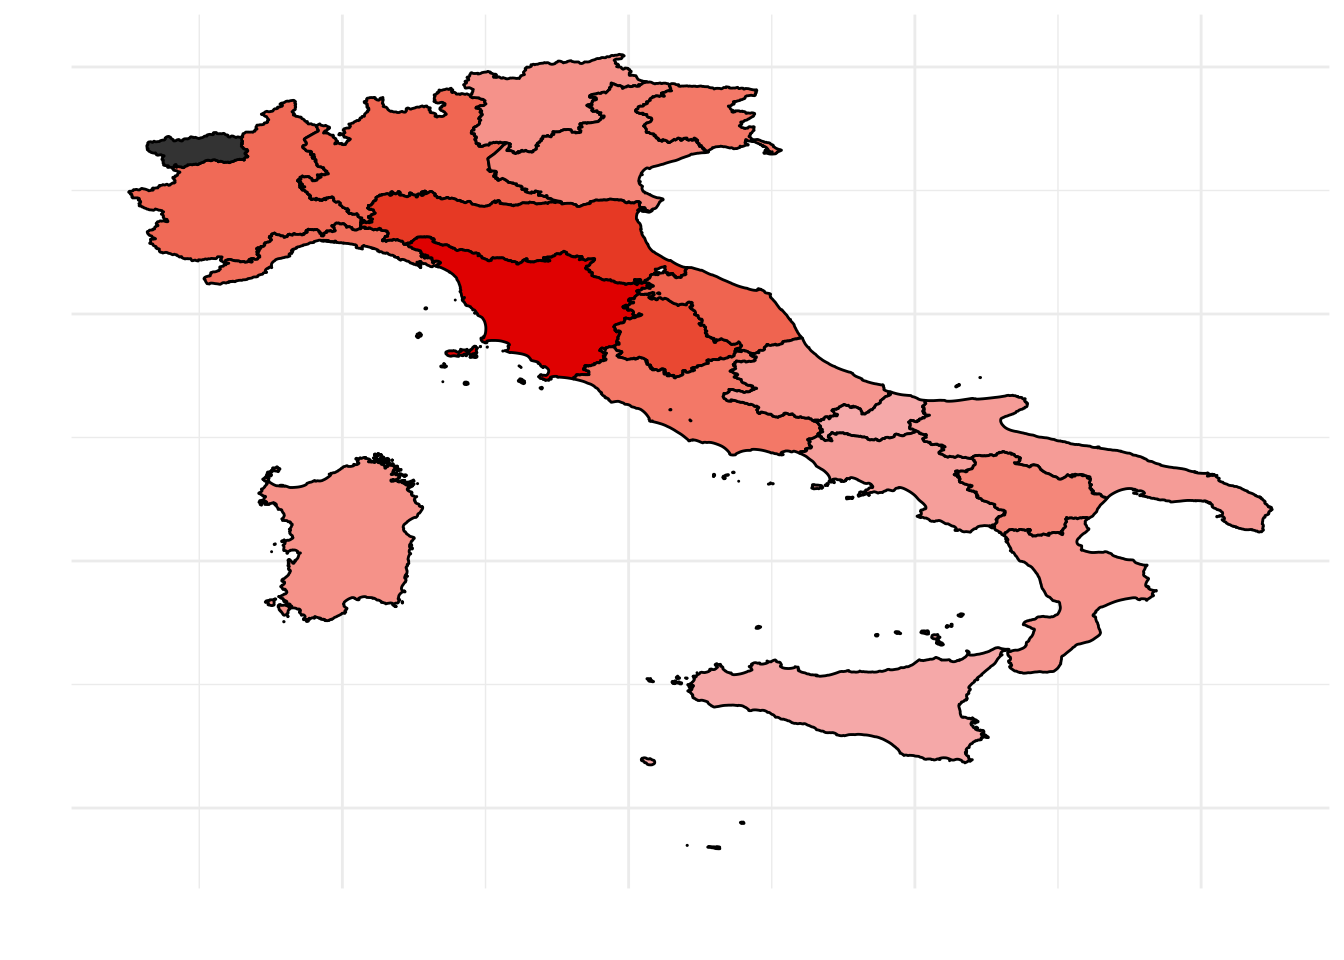
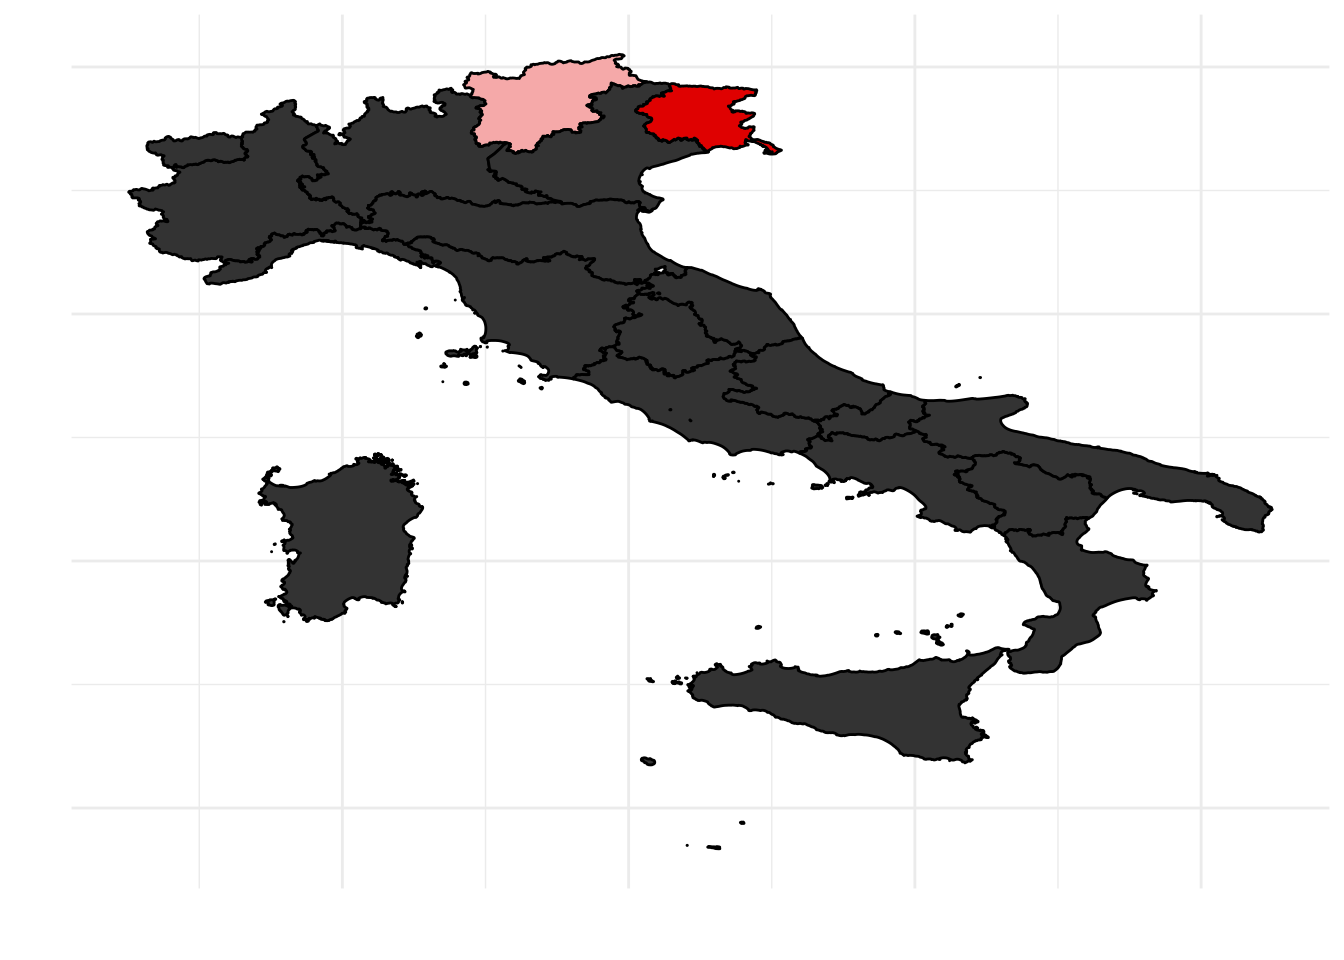
elections with new plots

Changed region(s): [[0.0938, 0.0625, 0.9375, 0.8125], [0.1875, 0.4688, 0.3125, 0.6562]]

diff --git a/elections2.html b/elections2.html
@@ -611,8 +611,10 @@ centre
 </table>
 </div>
 </div>
-<div id="how-many-votes-for-the-democratic-party" class="section level2">
-<h2>How many votes for the Democratic Party?</h2>
+<div id="data-analysis" class="section level2">
+<h2>Data analysis</h2>
+<div id="how-many-votes-for-the-democratic-party" class="section level3">
+<h3>How many votes for the Democratic Party?</h3>
 <p>Let us now focus on one party. For example we may focus on the Democratic Party that “won” the 2013 elections, but that did not do well in 2018.</p>
 <p>The percentage of votes the Democratic Party got in each region is the following:</p>
 <pre class="r"><code>tab1 &lt;- elections_region %&gt;%
@@ -621,296 +623,18 @@ centre
   arrange(desc(perc_votes))  %&gt;%
   ungroup()
 
-knitr::kable(tab1, col.names = c(&quot;Region&quot;, &quot;Num. of votes&quot;, &quot;Percentage of votes&quot;, &quot;Macroarea&quot;), &quot;html&quot;) %&gt;%
-  kableExtra::kable_styling(full_width = F, font_size = 11, position = &quot;center&quot;)</code></pre>
-<?xml version="1.0" encoding="UTF-8"?>
-<table class="table" style="font-size: 11px; width: auto !important; margin-left: auto; margin-right: auto;">
-<thead>
-<tr>
-<th style="text-align:left;">
-Region
-</th>
-<th style="text-align:right;">
-Num. of votes
-</th>
-<th style="text-align:right;">
-Percentage of votes
-</th>
-<th style="text-align:left;">
-Macroarea
-</th>
-</tr>
-</thead>
-<tbody>
-<tr>
-<td style="text-align:left;">
-toscana
-</td>
-<td style="text-align:right;">
-609770
-</td>
-<td style="text-align:right;">
-29.64
-</td>
-<td style="text-align:left;">
-centre
-</td>
-</tr>
-<tr>
-<td style="text-align:left;">
-emilia-romagna
-</td>
-<td style="text-align:right;">
-645082
-</td>
-<td style="text-align:right;">
-26.44
-</td>
-<td style="text-align:left;">
-centre
-</td>
-</tr>
-<tr>
-<td style="text-align:left;">
-umbria
-</td>
-<td style="text-align:right;">
-122266
-</td>
-<td style="text-align:right;">
-24.86
-</td>
-<td style="text-align:left;">
-centre
-</td>
-</tr>
-<tr>
-<td style="text-align:left;">
-marche
-</td>
-<td style="text-align:right;">
-182031
-</td>
-<td style="text-align:right;">
-21.36
-</td>
-<td style="text-align:left;">
-centre
-</td>
-</tr>
-<tr>
-<td style="text-align:left;">
-lombardia
-</td>
-<td style="text-align:right;">
-1142789
-</td>
-<td style="text-align:right;">
-21.07
-</td>
-<td style="text-align:left;">
-north
-</td>
-</tr>
-<tr>
-<td style="text-align:left;">
-piemonte
-</td>
-<td style="text-align:right;">
-478671
-</td>
-<td style="text-align:right;">
-20.45
-</td>
-<td style="text-align:left;">
-north
-</td>
-</tr>
-<tr>
-<td style="text-align:left;">
-liguria
-</td>
-<td style="text-align:right;">
-163564
-</td>
-<td style="text-align:right;">
-19.73
-</td>
-<td style="text-align:left;">
-north
-</td>
-</tr>
-<tr>
-<td style="text-align:left;">
-lazio
-</td>
-<td style="text-align:right;">
-553131
-</td>
-<td style="text-align:right;">
-18.57
-</td>
-<td style="text-align:left;">
-centre
-</td>
-</tr>
-<tr>
-<td style="text-align:left;">
-friuli-venezia
-</td>
-<td style="text-align:right;">
-119106
-</td>
-<td style="text-align:right;">
-18.45
-</td>
-<td style="text-align:left;">
-north
-</td>
-</tr>
-<tr>
-<td style="text-align:left;">
-veneto
-</td>
-<td style="text-align:right;">
-456727
-</td>
-<td style="text-align:right;">
-16.68
-</td>
-<td style="text-align:left;">
-north
-</td>
-</tr>
-<tr>
-<td style="text-align:left;">
-basilicata
-</td>
-<td style="text-align:right;">
-49603
-</td>
-<td style="text-align:right;">
-16.38
-</td>
-<td style="text-align:left;">
-south and islands
-</td>
-</tr>
-<tr>
-<td style="text-align:left;">
-sardegna
-</td>
-<td style="text-align:right;">
-122717
-</td>
-<td style="text-align:right;">
-14.71
-</td>
-<td style="text-align:left;">
-south and islands
-</td>
-</tr>
-<tr>
-<td style="text-align:left;">
-trentino-alto
-</td>
-<td style="text-align:right;">
-76874
-</td>
-<td style="text-align:right;">
-14.61
-</td>
-<td style="text-align:left;">
-north
-</td>
-</tr>
-<tr>
-<td style="text-align:left;">
-calabria
-</td>
-<td style="text-align:right;">
-127939
-</td>
-<td style="text-align:right;">
-14.13
-</td>
-<td style="text-align:left;">
-south and islands
-</td>
-</tr>
-<tr>
-<td style="text-align:left;">
-abruzzo
-</td>
-<td style="text-align:right;">
-102984
-</td>
-<td style="text-align:right;">
-14.12
-</td>
-<td style="text-align:left;">
-centre
-</td>
-</tr>
-<tr>
-<td style="text-align:left;">
-puglia
-</td>
-<td style="text-align:right;">
-279251
-</td>
-<td style="text-align:right;">
-13.04
-</td>
-<td style="text-align:left;">
-south and islands
-</td>
-</tr>
-<tr>
-<td style="text-align:left;">
-campania
-</td>
-<td style="text-align:right;">
-370299
-</td>
-<td style="text-align:right;">
-12.80
-</td>
-<td style="text-align:left;">
-south and islands
-</td>
-</tr>
-<tr>
-<td style="text-align:left;">
-sicilia
-</td>
-<td style="text-align:right;">
-261479
-</td>
-<td style="text-align:right;">
-11.17
-</td>
-<td style="text-align:left;">
-south and islands
-</td>
-</tr>
-<tr>
-<td style="text-align:left;">
-molise
-</td>
-<td style="text-align:right;">
-22963
-</td>
-<td style="text-align:right;">
-11.08
-</td>
-<td style="text-align:left;">
-south and islands
-</td>
-</tr>
-</tbody>
-</table>
+tab1$region &lt;- reorder(tab1$region, tab1$perc_votes)
+
+ggplot(tab1) +
+  geom_bar(aes(x = region, y = perc_votes, fill = macroarea), 
+           stat = &quot;identity&quot;, col = &quot;black&quot;, alpha = 0.5) +
+   scale_y_continuous(labels = function(perc_votes) paste0(perc_votes, &quot;%&quot;)) +
+  coord_flip() +
+  theme_bw() +
+  theme(legend.position=&quot;bottom&quot;, axis.text.x=element_text(angle=45, hjust=1))</code></pre>
+<p><img src="elections2_files/figure-html/analisi%20partito-1.png" width="672" style="display: block; margin: auto;" /></p>
 <p>It seems that the democratic party is strong in central Italy, a bit less strong in the north of Italy, and definately not that appealing for the Southern Italy.</p>
+</div>
 <div id="those-that-did-not-vote-for-the-democratic-party-did-they-vote-for-another-left-wing-party" class="section level3">
 <h3>Those that did not vote for the democratic party, did they vote for another left wing party?</h3>
 <p>In other words, I would like to find out whether there are regions in which both the percentage of votes to the democratic party and the percentage of votes to another left wing party are high. By doing so I should identify left-wing regions where both percentages are high and righ wing regions in which both percentage are low. Or regions in which one of the two party has attracted most votes leavig the other one with none.</p>
